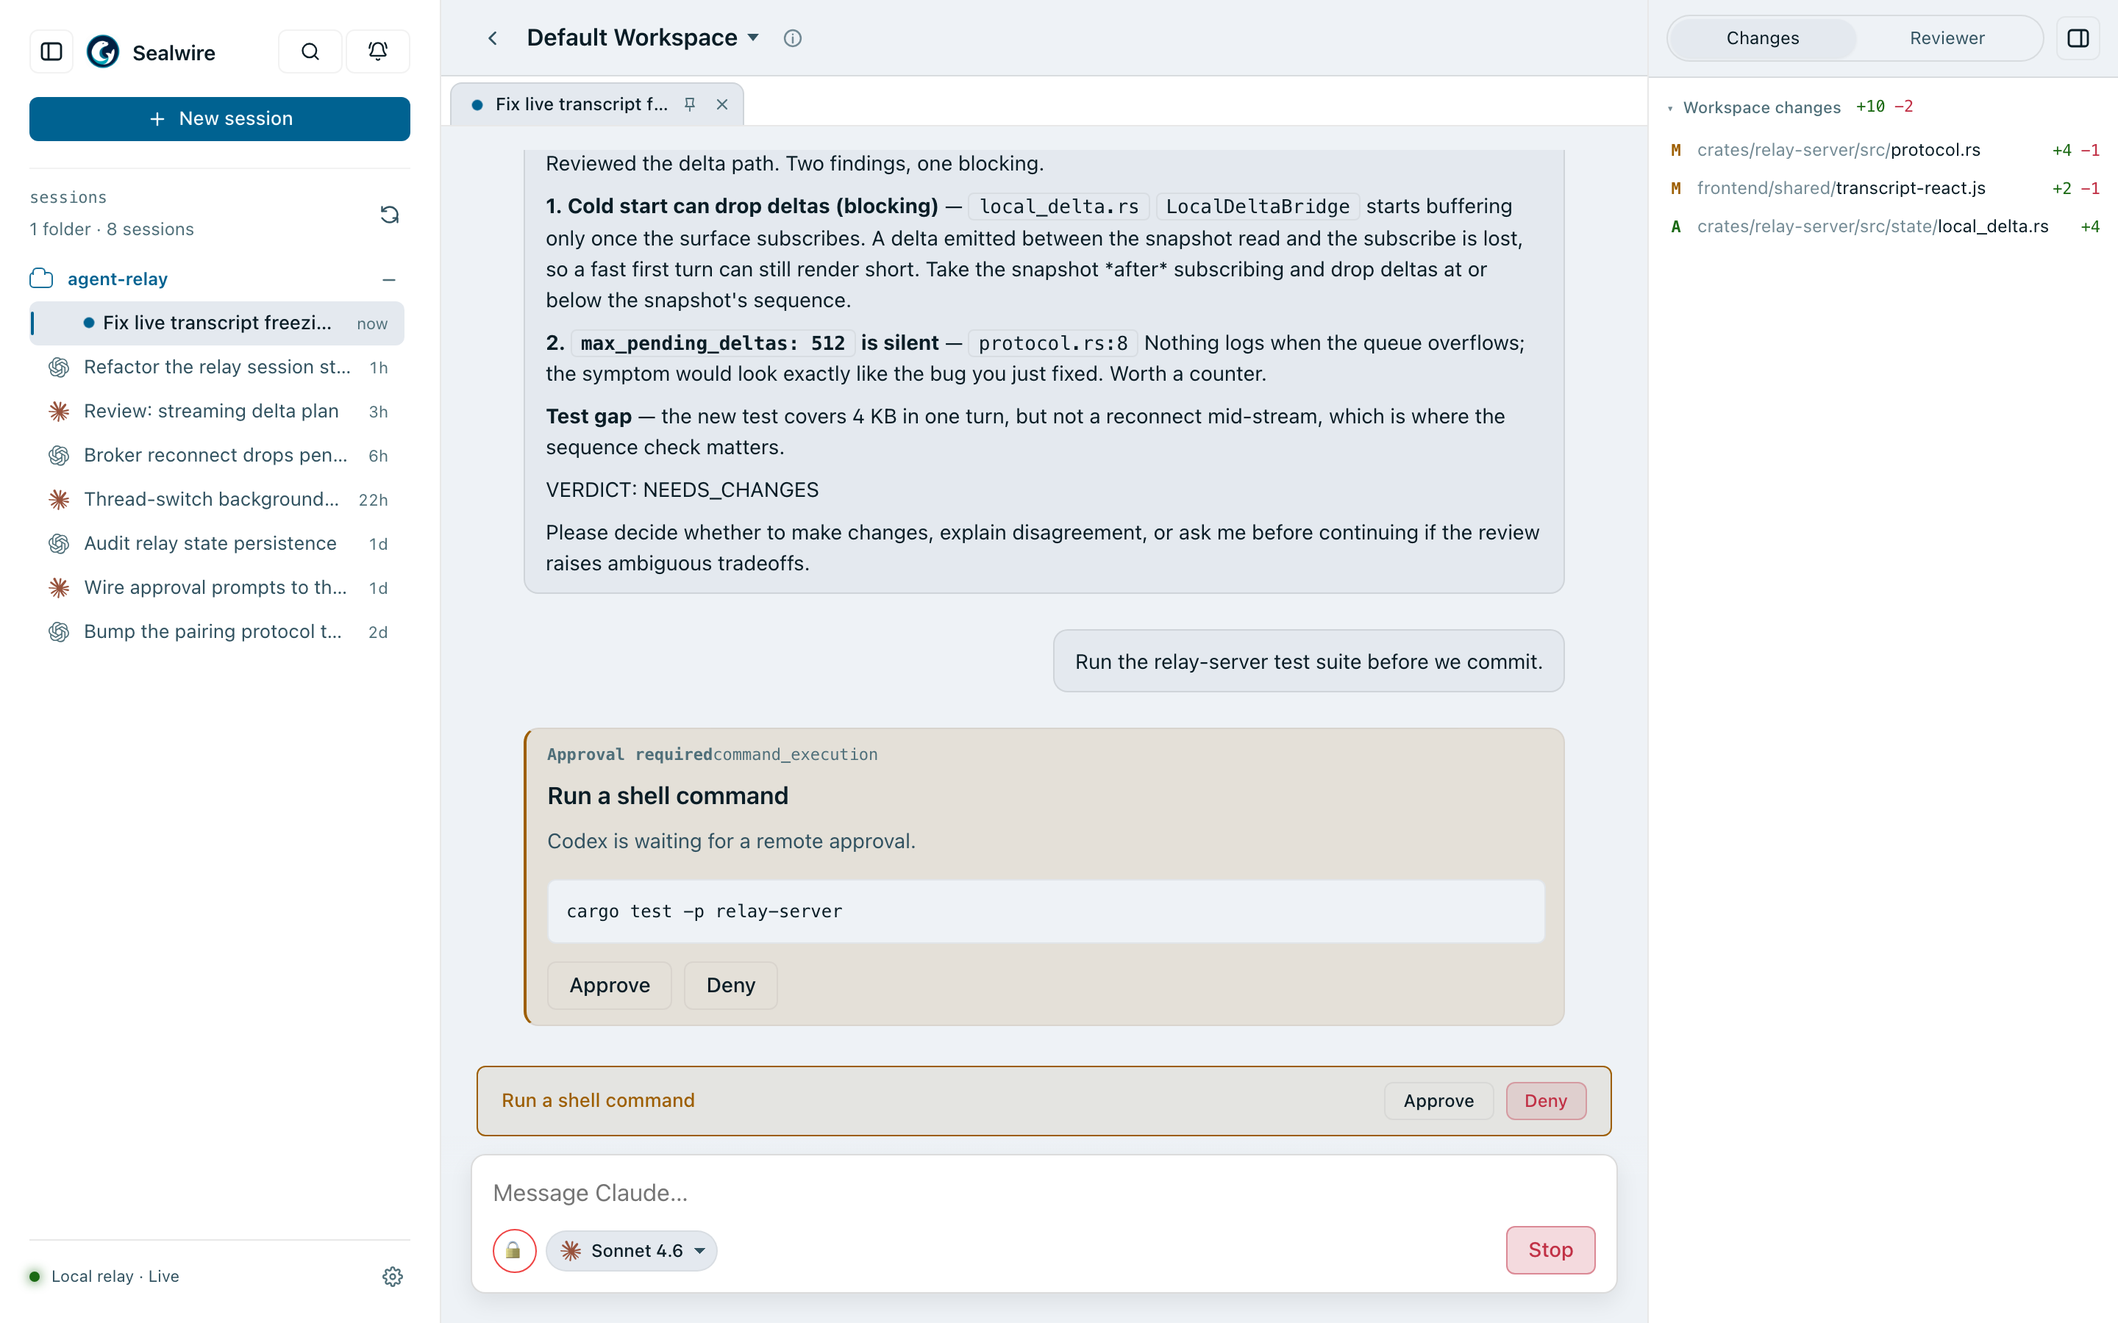
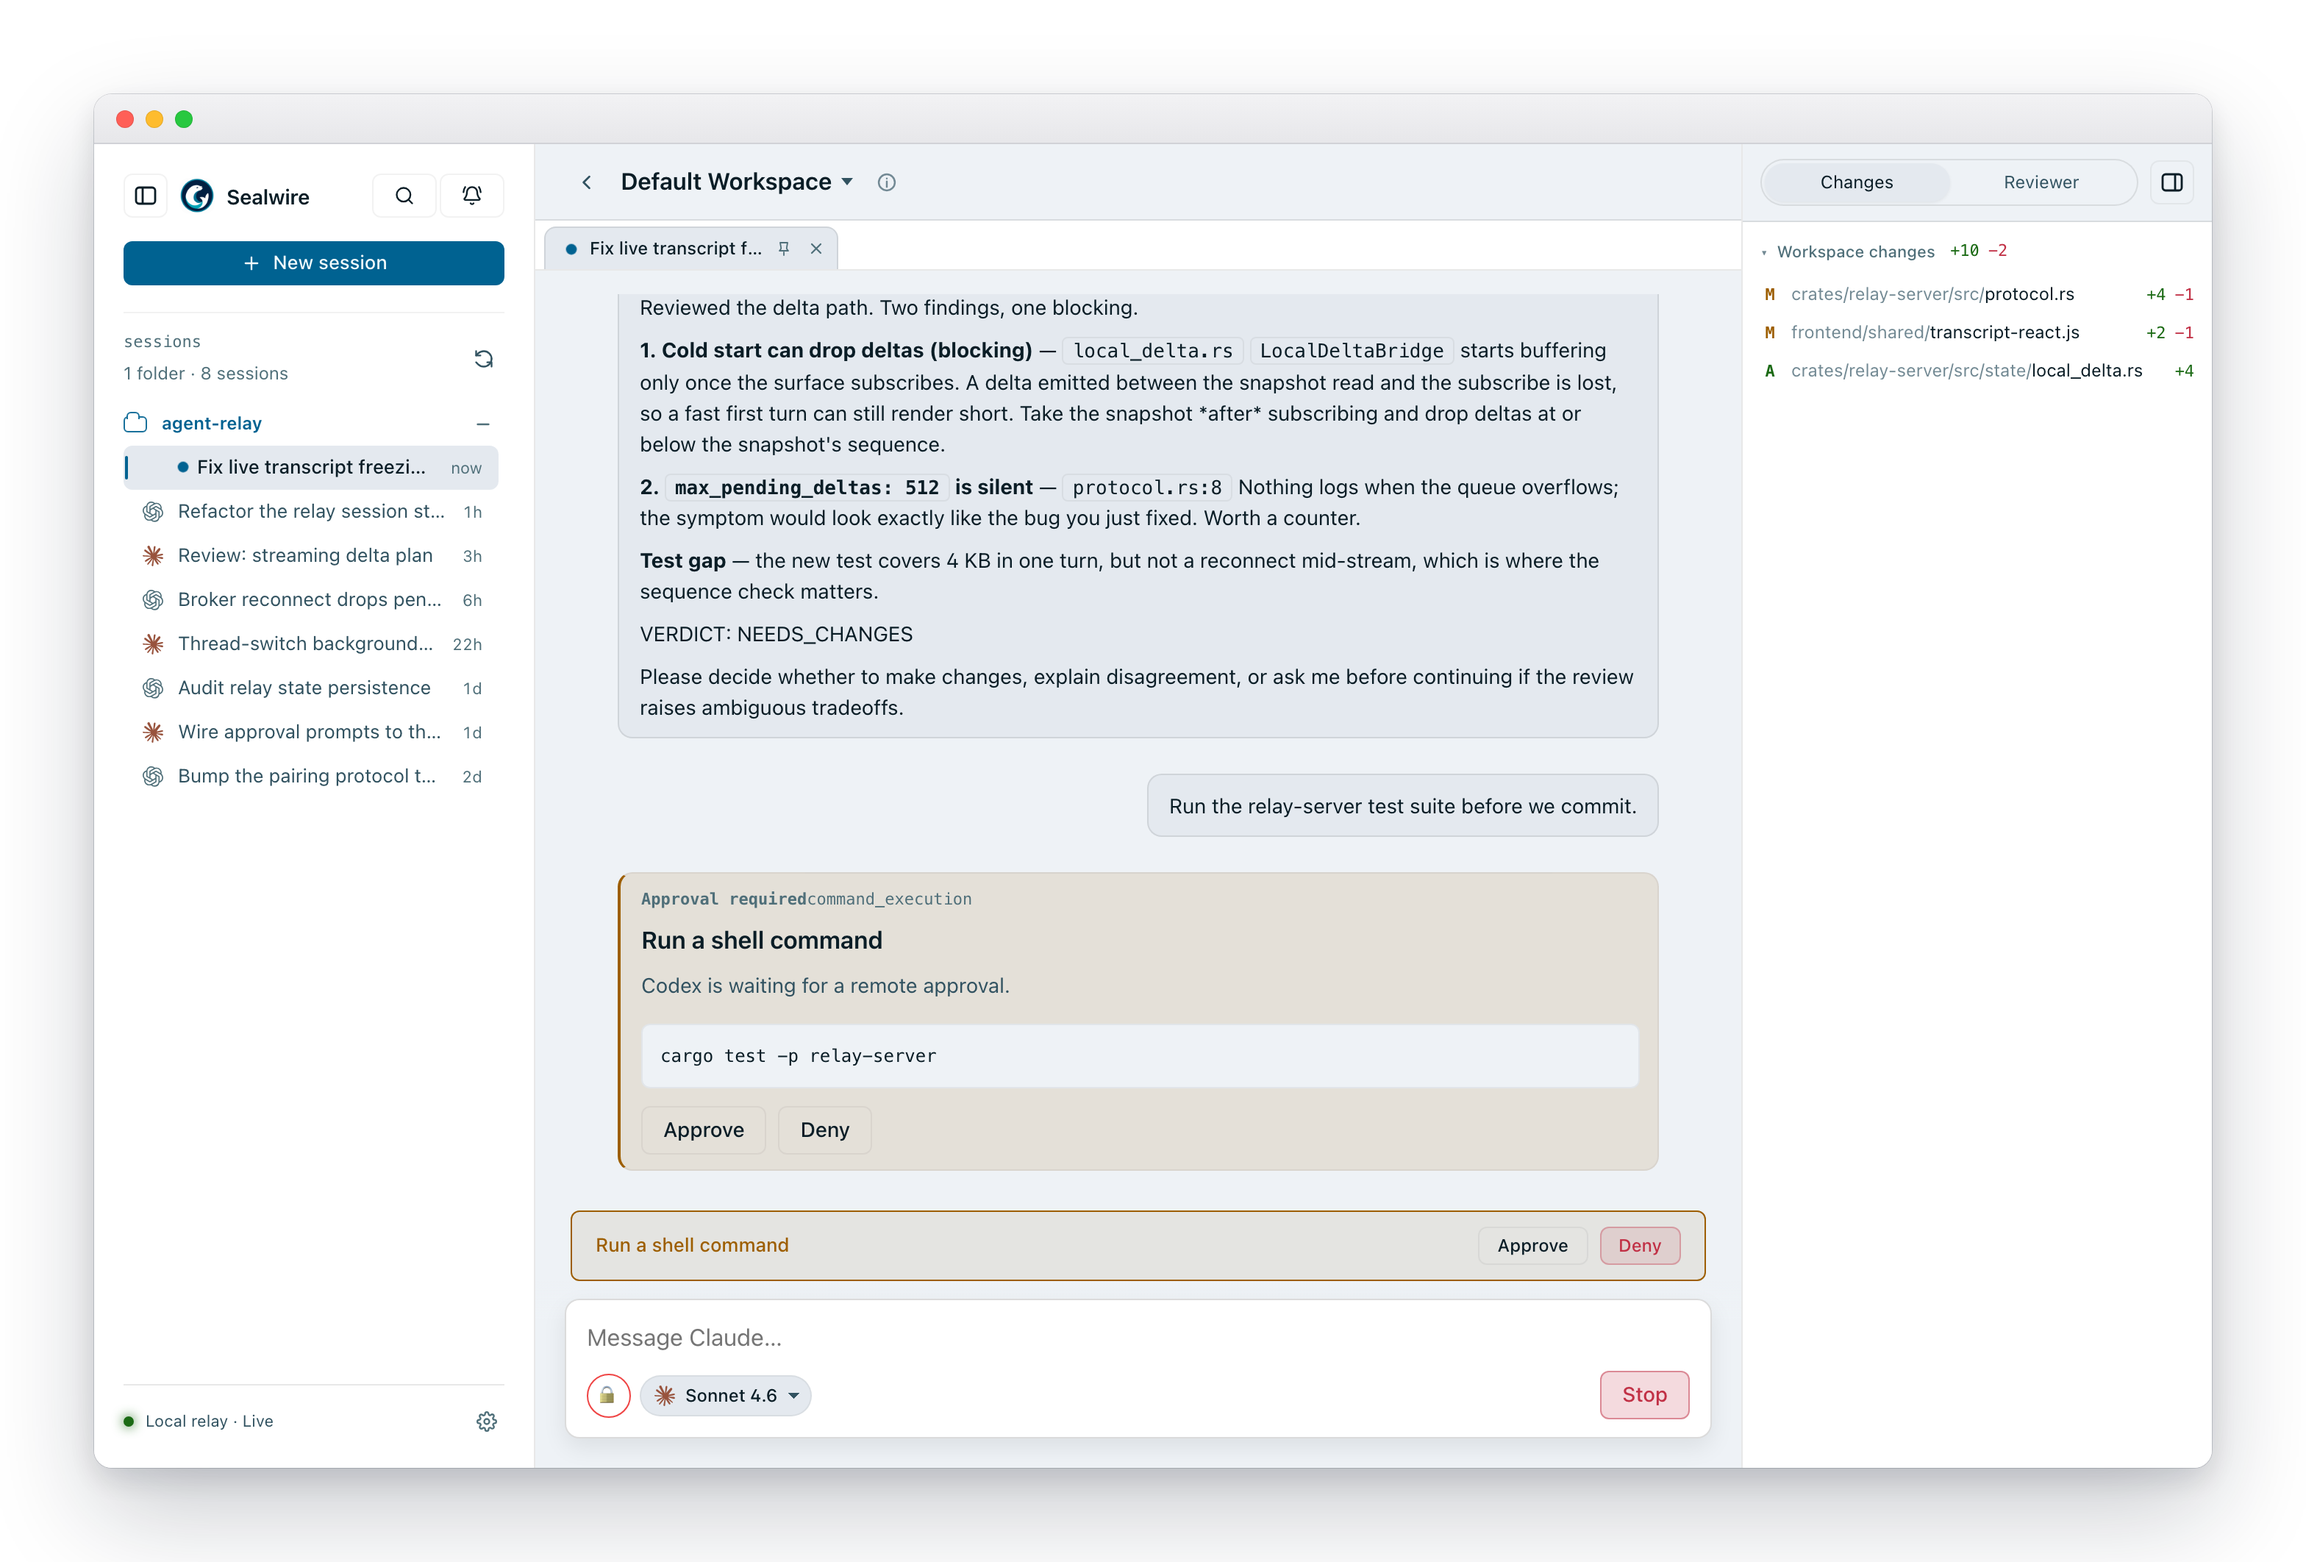
Frame the README screenshots in a window and a handset
Bare screenshots float on the page with nothing to say "this is an app".
Wrap the desktop shots in a macOS window (titlebar + traffic lights) and
the phone shot in a rounded handset body.

Done with zero new dependencies: the PNG is inlined as a data: URI into a
local HTML page — so it fetches nothing — and the framed element is
captured with the Playwright/Chromium already used to take the shots.

I did look for an existing package first. The candidates are all either
unmaintained (MockupEngineer, last released 2022), Photoshop-dependent
(mockingbird-psd), or capture tools rather than framers (macshot). More
importantly, the ones offering "official" Apple bezels are redistributing
Apple's design resources, which is a licensing grey area for artwork
committed to a public repo. Traffic-light dots and a generic rounded body
are UI conventions, not Apple assets, so drawing them sidesteps both the
supply-chain and the licensing question.

The frame pass re-rasterises the embedded image, so it renders at the scale
the shot was captured at — one page per scale. Framing the 3x phone shot in
a 2x context silently downsampled it 1170px -> 780px; it is 1170px again.

Changed region(s): [[0.0, 0.0, 0.9688, 0.9956], [0.9688, 0.0311, 1.0, 0.0622]]

diff --git a/README.md b/README.md
@@ -120,7 +120,7 @@ and the same session shows up there — the approval in full, and a **Take over*
 button that moves control to the device in your hand.
 
 <p align="center">
-  <img src="docs/images/phone-approval.png" alt="The remote surface on a phone: an approval request with the full command and inline Approve and Deny, after claiming control of the session from this device" width="330">
+  <img src="docs/images/phone-approval.png" alt="The remote surface on a phone: an approval request with the full command and inline Approve and Deny, after claiming control of the session from this device" width="400">
 </p>
 
 The remote surface is an installable PWA, so it lives on your home screen and
